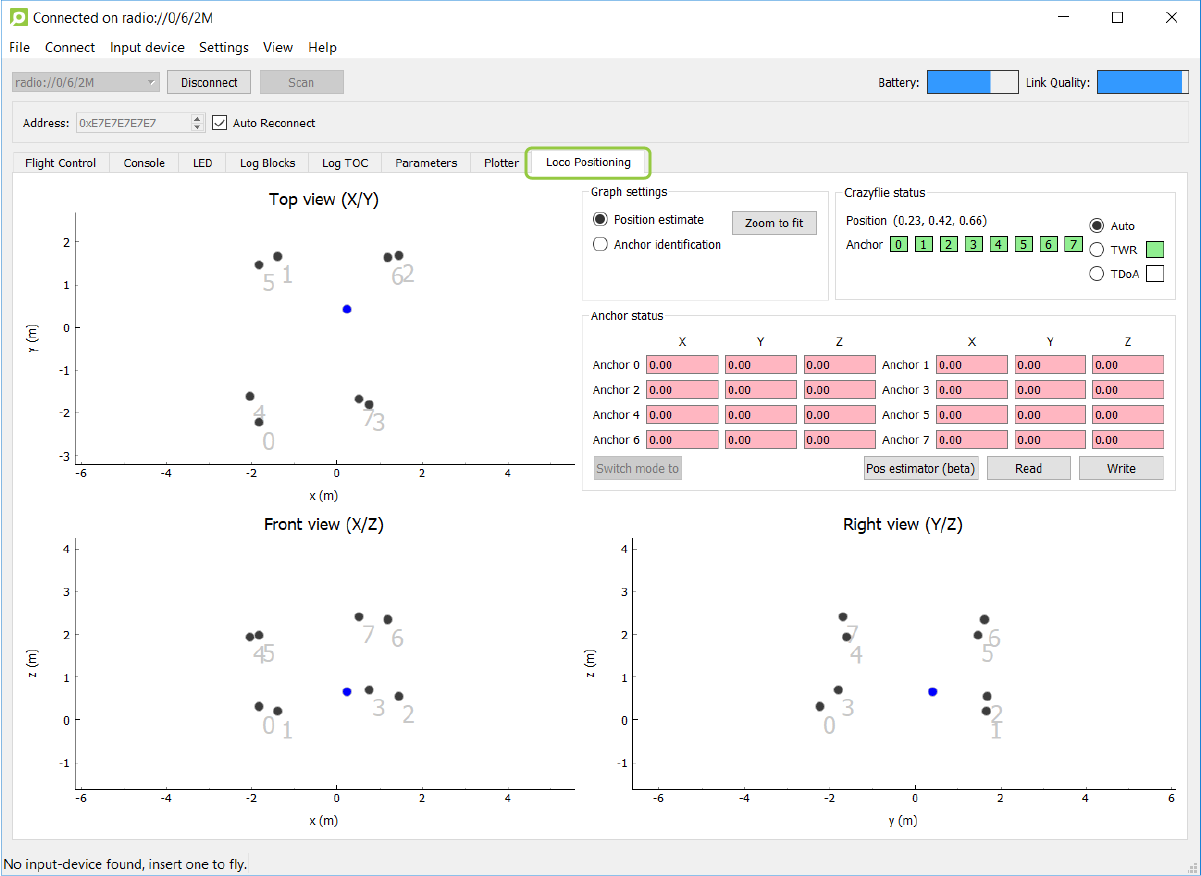
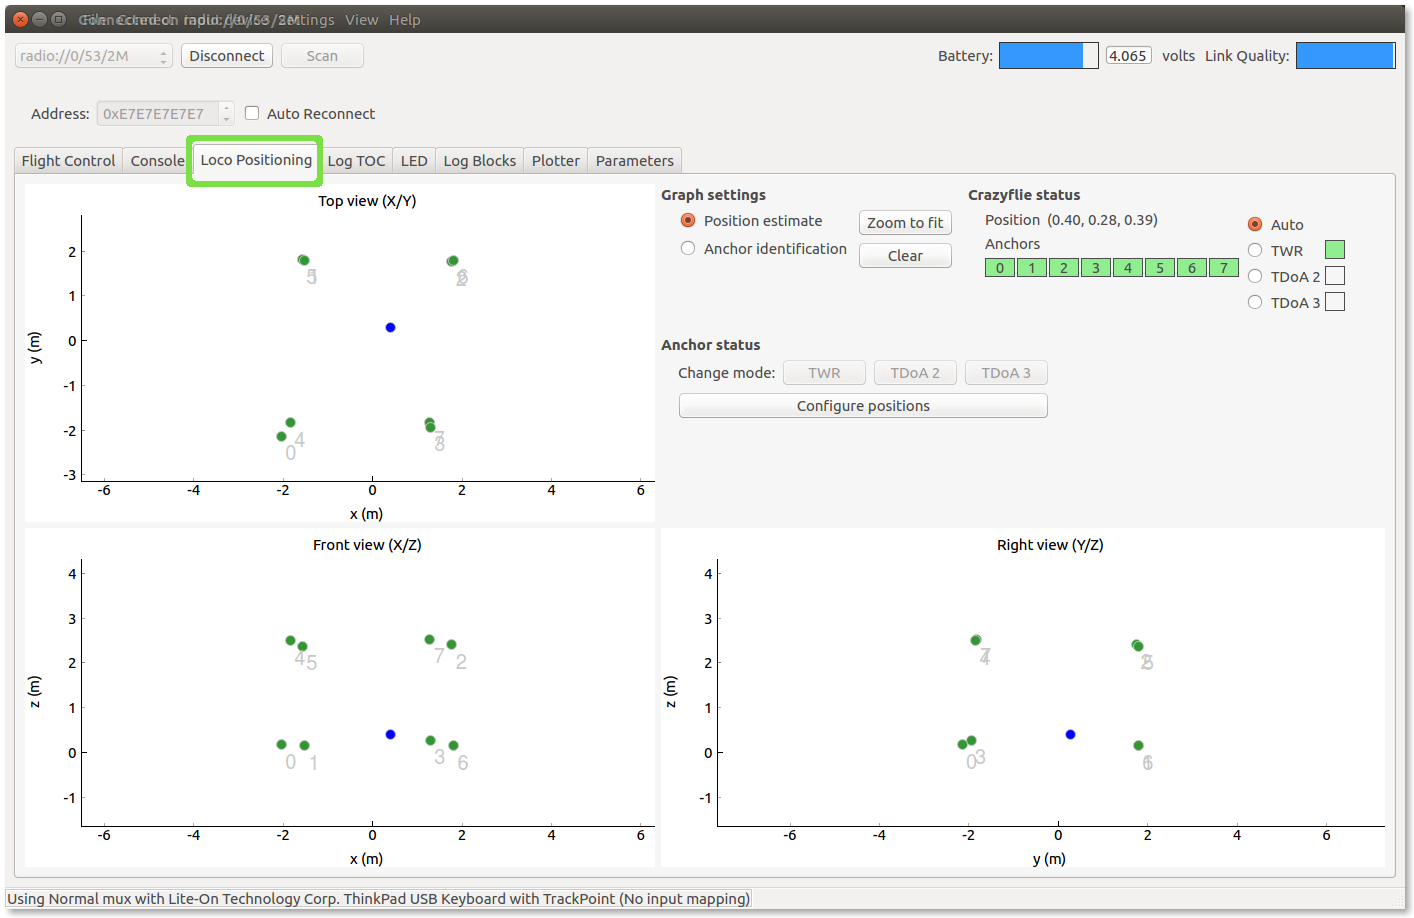
Update LPS getting started to match the new client GUI

diff --git a/src/tutorials/loco-positioning-system.md b/src/tutorials/loco-positioning-system.md
@@ -111,6 +111,9 @@ order of the IDs.
 {% img reference system; wide; /images/tutorials/getting_started_with_lps/loco_ref_system_8_anchors.png %}
 {% endtab %}
 {% endtabgroup %}
+
+If you have more than 8 anchors, we suggest you setup a system with 8 anchors first and then switch your 
+system to TDoA3 to add more anchors to the system. See the [tdoa3 setup page](https://wiki.bitcraze.io/doc:lps:toda3) on the wiki for more information.
 {% endsi_step %}
 
 {% si_step Powering the anchors %}
@@ -164,18 +167,21 @@ configured correctly, powered and in line of sight.
 {% endsi_step %}
 
 {% si_step Enter anchor positions %}
-Before you start entering any anchor positions make sure the boxes are green or red. If, for some reason, they stay white restart the cfclient.
+To start configuring the anchor position you need to click on the __"Configure positions"__ button.
 
-Now it is time to enter the anchor positions. The boxes will become red as soon as that position differs from the position saved in the anchor.
+{% img click configure positions; wide; /images/tutorials/getting_started_with_lps/Click configure positions.png %}
 
-{% img enter anchor positions; wide; /images/tutorials/getting_started_with_lps/Enter anchor positions.png %}
+A pop-up window will appear. Click the button __"Get from anchors"__ to get the list of anchors and fill up the positions.
+
+{% img click get from anchors; medium; /images/tutorials/getting_started_with_lps/Click get from anchors.png %}
+{% img enter anchor positions; medium ; /images/tutorials/getting_started_with_lps/Enter anchor positions.png %}
 {% endsi_step %}
 
 {% si_step Write position to anchors %}
-* To save the new anchor positions in the anchors press the __"Write"__ button
+* To save the new anchor positions in the anchors press the __"Write to anchors"__ button
 * Verify that the anchor position boxes changes from red to green. If no change has occurred within 5 seconds try to write again
 
-{% img write position to anchors; wide; /images/tutorials/getting_started_with_lps/Write position to anchors.png %}
+{% img write position to anchors; medium; /images/tutorials/getting_started_with_lps/Write position to anchors.png %}
 {% endsi_step %}
 
 {% si_step Verify anchor positions %}
@@ -203,36 +209,40 @@ Congratulations, the Loco Positioning System is now calibrated!
 
 
 {% si_intro Switching system mode to TDoA %}
-If you intend to use the system in TDoA mode it is now time to change the system mode.
+If you intend to use the system in TDoA mode to fly more than one Crazyflie it is now time to change the system mode. There exist two version of the TDoA ranging protocol.
+
+ - TDoA 2 works with 8 anchors.
+ - TDoA 3 does not have any limitation in the number of anchors and so it can be used
+for bigger system, thought it will be more noisy for a system of 8 anchors.
 {% endsi_intro %}
 
 {% si_step Force the Crazyflie to use TWR mode %}
-In the crazyflie status section tick the TWR radio button. 
+In the crazyflie status section tick the __TWR__ radio button. 
 
-This will enable the "Switch to mode TDoA" button in the anchor status section.
+This will enable the __"TDoA2"__ button in the anchor status section.
 
-{% img Force TWR mode; wide; /images/tutorials/getting_started_with_lps/lps-system-mode-switch-1.jpeg %}
+{% img Force TWR mode; wide; /images/tutorials/getting_started_with_lps/lps-system-mode-switch-1.png %}
 {% endsi_step %}
 
 {% si_step Switch anchors to TDoA mode %}
-Press the "Switch to mode TDoA" button to switch the anchors to TDoA mode.
+Press the __"TDoA 2"__ button to switch the anchors to TDoA mode.
 
 After a few seconds all anchor status boxes should turn red to indicate that the
 Crazyflie 2.0 is no longer receiving TWR data from the anchors.
 
-{% img Switch anchors to TDoA mode; wide; /images/tutorials/getting_started_with_lps/lps-system-mode-switch-2.jpeg %}
+{% img Switch anchors to TDoA mode; wide; /images/tutorials/getting_started_with_lps/lps-system-mode-switch-2.png %}
 
 For details on system mode switching and troubleshooting, please see [the wiki](https://wiki.bitcraze.io/doc:lps:configure-mode)
 {% endsi_step %}
 
 {% si_step Switch the Crazyflie back to auto mode %}
 As a last step, confirm the TDoA mode by ticking the Auto radio button in the Crazyflie 
-status section and verify that the TDoA box turns green.
+status section and verify that the TDoA2 box turns green.
 
 The anchor boxes should also turn green when the Crazyflie switches to TDoA mode and
 starts to receive data from the anchors.
 
-{% img Switch to auto mode; wide; /images/tutorials/getting_started_with_lps/lps-system-mode-switch-3.jpeg %}
+{% img Switch to auto mode; wide; /images/tutorials/getting_started_with_lps/lps-system-mode-switch-3.png %}
 {% endsi_step %}
 
 
